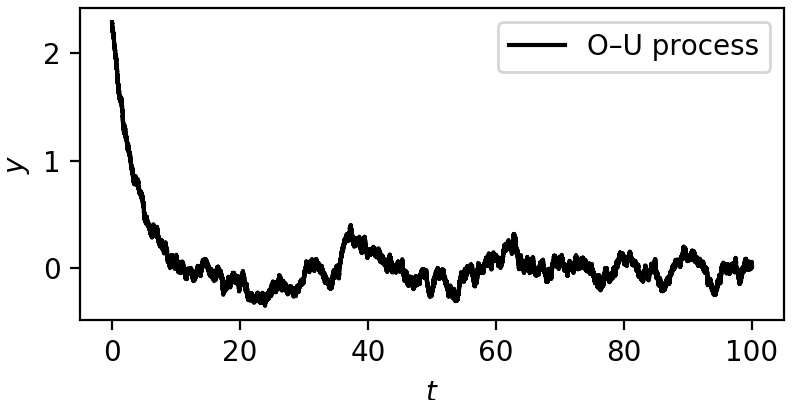
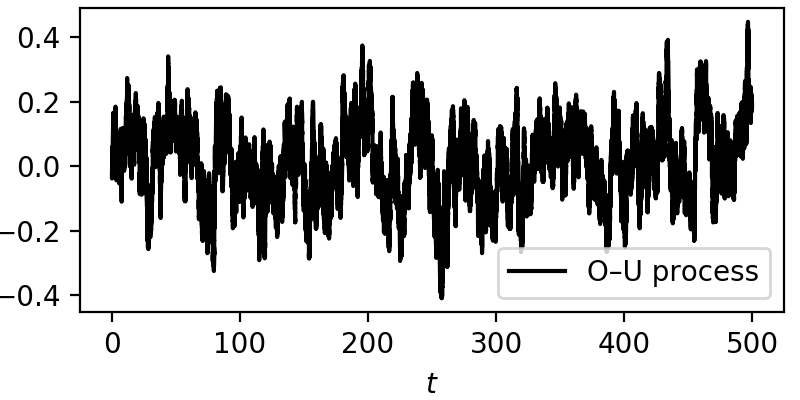
Further updates to the readme and a few figures

diff --git a/README.md b/README.md
@@ -2,10 +2,10 @@
 Python KM is a  python package designed to obtain the Kramers–Moyal coefficients, or conditional moments, from stochastic data of any dimension. It employs kernel density estimations, instead of a histogram approach, to ensure better results for low number of points as well as allowing better fitting of the results
 
 # Changelog
-Version 0.31 - Corrections to the fft triming after convolution
-Version 0.3 - The major breakthrough: Calculates the Kramers–Moyal coefficients for data of any dimension
-Version 0.2 - Introducing convolutions and `gaussian` and `ùniform` kernels. Major speed up in the calculations.
-Version 0.1 - One and two dimensional Kramers–Moyal coefficients with an `epanechnikov` kernel
+- Version 0.31 - Corrections to the fft triming after convolution
+- Version 0.3 - The major breakthrough: Calculates the Kramers–Moyal coefficients for data of any dimension
+- Version 0.2 - Introducing convolutions and `gaussian` and `uniform` kernels. Major speed up in the calculations.
+- Version 0.1 - One and two dimensional Kramers–Moyal coefficients with an `epanechnikov` kernel
 
 
 # Installation
@@ -23,18 +23,18 @@ Take for example the well documented one-dimension Ornstein–Uhlenbeck process,
 which can be solved in various ways. For our purposes, recall that the drift coefficients, i.e., the first-order Kramers–Moyal coefficient is given by ![first-order Kramers–Moyal coefficient of an Ornstein–Uhlenbeck process](/other/KM_1.png) and the second-order Kramers–Moyal coefficient is ![second-order Kramers–Moyal coefficient of an Ornstein–Uhlenbeck process](/other/KM_2.png).
 
 Generate an exemplary Ornstein–Uhlenbeck process with your favorite integrator, e.g., the [Euler–Maruyama](https://en.wikipedia.org/wiki/Euler%E2%80%93Maruyama_method) or with a more powerful tool from [`JiTCSDE`](https://github.com/neurophysik/jitcsde) found on GitHub.
-For this example lets take &theta;=.4 and &sigma;=1, over a total time of 100 units, with a sampling of 100 Hertz, and from the generated data series retrieve the two parameters, the drift &theta; and diffusion &sigma;
+For this example lets take &theta;=.3 and &sigma;=.1, over a total time of 50 units, with a sampling of 1000 Hertz, and from the generated data series retrieve the two parameters, the drift &theta; and diffusion &sigma;.
 
 ## Integrating an Ornstein–Uhlenbeck process
 Here is a short code on generating a Ornstein–Uhlenbeck stochastic trajectory with a simple Euler–Maruyama integration method
 
 ```python
 # integration time and time sampling
-t_final=50
-delta_t=0.0001
+t_final=500
+delta_t=0.001
 
 # The parameters theta and sigma
-theta=.4
+theta=.3
 sigma=.1
 
 # The time array of the trajectory
@@ -46,21 +46,35 @@ y = np.zeros([time.size])
 #Generate a Wiener process
 dw = np.random.normal(loc=0, scale=np.sqrt(delta_t),size=[time.size,1])
 
-# Let the process start far from zero
-y[0]=2.3
+# Give some random initial conditions far from zero
+y[0]=np.random.normal(size=1)/10
 
 # Integrate the process
 for i in range(1,time.size):
     y[i] = y[i-1] - theta*y[i-1]*delta_t + sigma*dw[i]
 ```
 
-From here we have a plain example of an Ornstein–Uhlenbeck process, starting at ```y[0]=2.3``` and drifting, due to the mean-reverting drift &theta;, down to zero. The effect of the noise effect can be seen across the whole trajectory.
+From here we have a plain example of an Ornstein–Uhlenbeck process, always drifting back to zero, due to the mean-reverting drift &theta;. The effect of the noise effect can be seen across the whole trajectory.
 
 ![Jump-diffusion process](/other/O-U_plot.png)
 
 ## Using Python KM
-Take the timeseries ```y``` and lets study the Kramers–Moyal coefficients after the transient drift back to the zero mean, i.e., for ```time=[20,50]```.
+Take the timeseries ```y``` and lets study the Kramers–Moyal coefficients. For this lets look at the drift and diffusion coefficients of the process, i.e., the first and second Kramers–Moyal coefficients, with an  ```epanechnikov``` kernel
+```python
+# Choose number of points of you target space
+bins = np.array([5000])
 
+# Choose powers to calculate
+powers = np.array([[1],[2]])
+
+# Choose your desired bandwith
+bw = .15
+
+# The kmc hold the results, where edges holds the binning space
+kmc, edges = km(y, kernel=kernel.epanechnikov, bw=bw, bins=bins, powers=powers)```
+
+This results in
+![Jump-diffusion process](/other/O-U_drift_diffusion.png)
 
 
 # A bivariate jump-diffusion process
@@ -70,4 +84,18 @@ A bivariate jump-diffusion process, a two-dimensional process with higher-order 
 
 An integration scheme as mentioned above allows one to numerically simulate the process.
 
-##
+# TODOs
+Next on the list is
+- Include an optimal bandwith calculator, based on [Silverman's](https://en.wikipedia.org/wiki/Kernel_density_estimation#A_rule-of-thumb_bandwidth_estimator)
+- Include more kernels
+- Add install script
+- Work throught the documentation carefully
+- Extend examples here and in the documentation
+- Create a sub-routine to calculate the KMs without a convolution
+
+# Support
+### History
+This project was started a few years ago at the [neurophysik](https://www.researchgate.net/lab/Klaus-Lehnertz-Lab-2) with Klaus Lehnertz, M. Reza Rahimi Tabar, and Jan Heyselself. Francisco Meirinhos devised later the hard coding to python. The project is now supported by Dirk Witthaut and the [Institute of Energy and Climate Research Systems Analysis and Technology Evaluation](https://www.fz-juelich.de/iek/iek-ste/EN/Home/home_node.html).
+
+### Funding
+Helmholtz Association Initiative _Energy System 2050 - A Contribution of the Research Field Energy_ and the grant No. VH-NG-1025.
